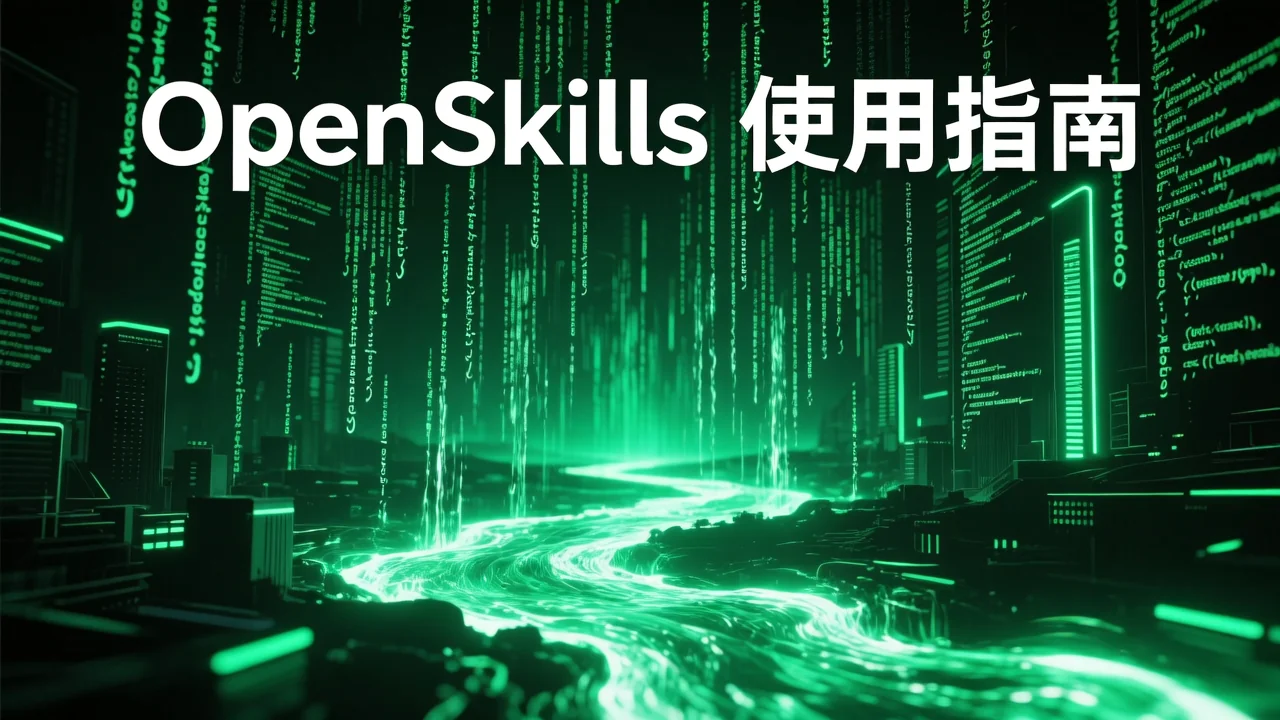
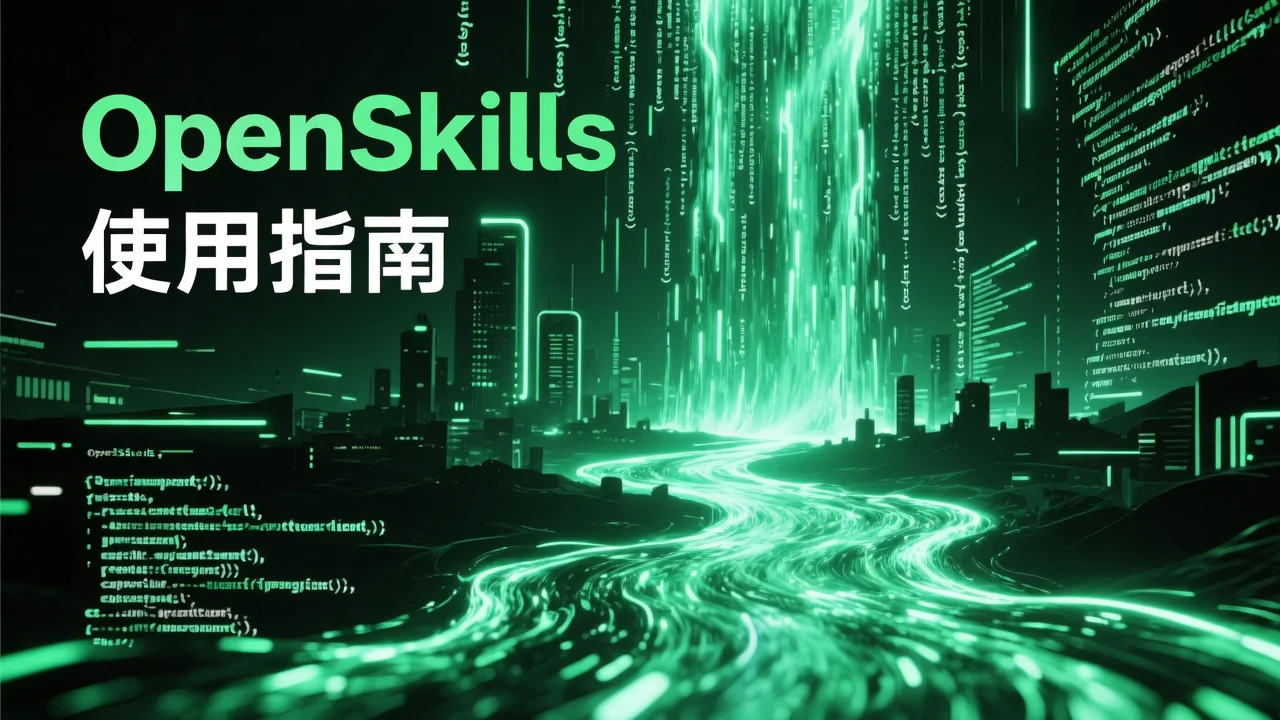
docs(ai_programming): 添加OpenSkills指南的封面图片和元数据
为OpenSkills使用指南添加AI生成的封面图片，并更新相关元数据包括字数统计、阅读时间和封面信息

diff --git a/content/zh/ai_programming/claude_skills_for_other_ai_coders.md b/content/zh/ai_programming/claude_skills_for_other_ai_coders.md
@@ -5,6 +5,14 @@ draft: false
 tags: ["OpenSkills", "Claude", "Skills"]
 categories: ["ai_programming"]
 description: "OpenSkills 是一个用于在 Cursor 和 Trae 中使用 Claude Skills 的开源工具，提供了详细的安装和使用指南。"
+wordCount: 1625
+readingTime: 7
+
+ai_cover: "/images/generated-covers/3def253ff8e18e0b6490f7582e723e7c.webp"
+cover:
+  image: "/images/generated-covers/3def253ff8e18e0b6490f7582e723e7c.webp"
+  alt: "OpenSkills 使用指南"
+  ai_generated: true
 ---
 
 
